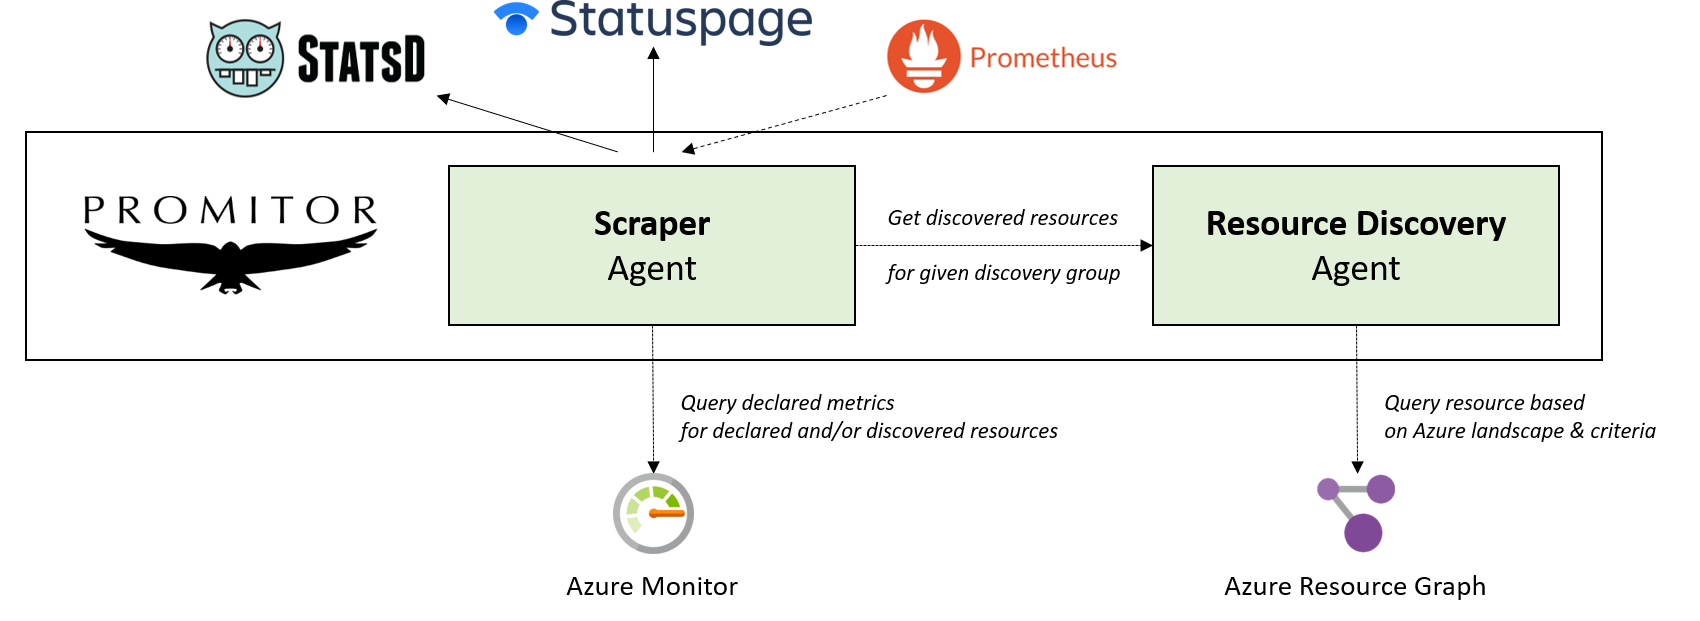
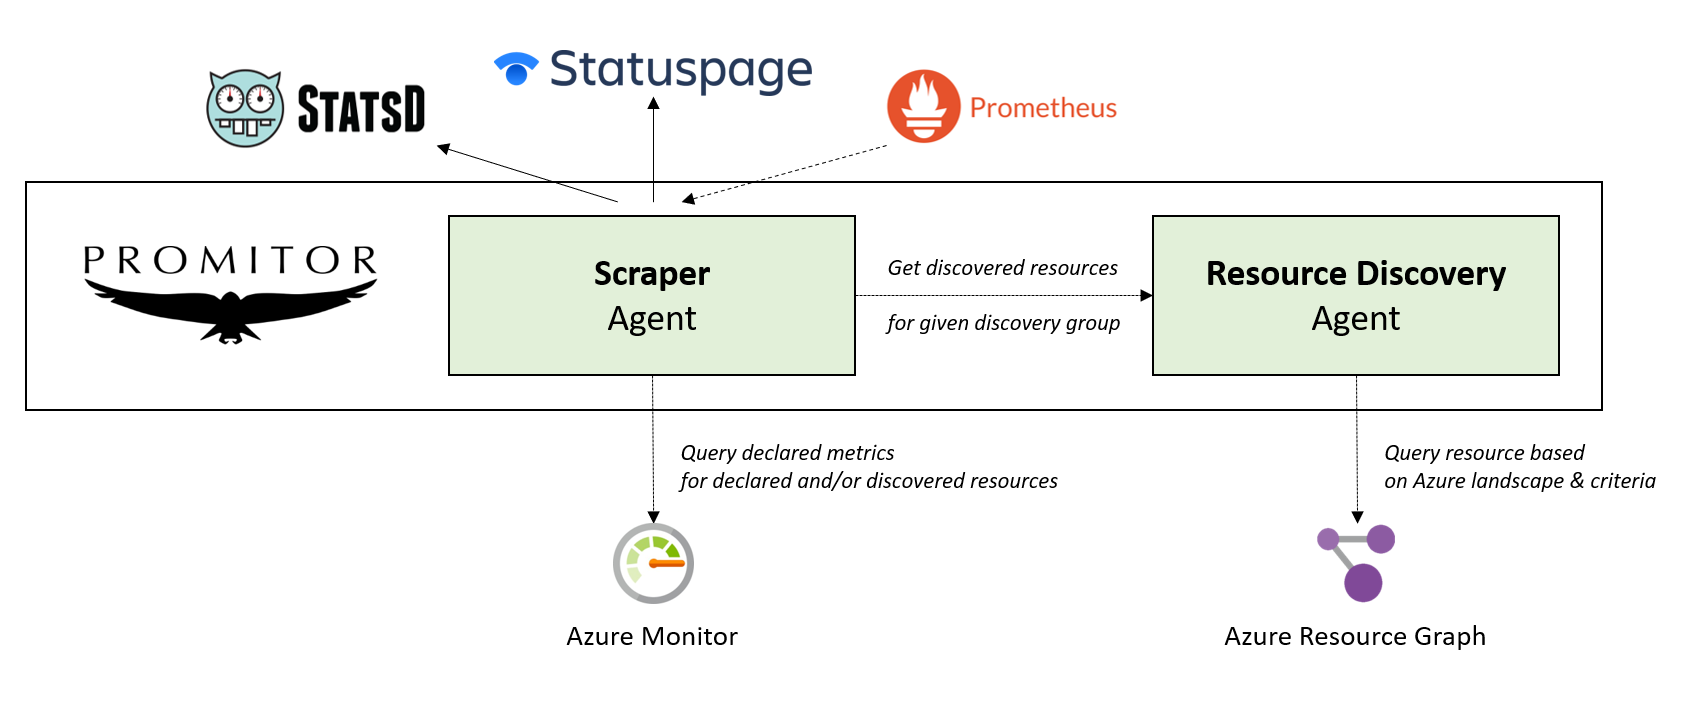
Provide an overview of how Promitor works (#1190)

diff --git a/docs/concepts/how-it-works.md b/docs/concepts/how-it-works.md
@@ -1,0 +1,60 @@
+---
+layout: default
+title: How Does Promitor Work?
+---
+
+**Promitor** is an Azure Monitor scraper which makes the metrics available
+to a variety of metric systems such as Atlassian Statuspage, Prometheus and StatsD.
+
+{:refdef: style="text-align: center;"}
+![Promitor](./../media/concepts/high-level.png)
+{: refdef}
+
+## Scraping Azure Monitor metrics
+
+When you want to scrape resources, you can use **Promitor Scraper** which uses a metrics-as-code approach.
+
+By writing a metric declaration, you will define what Azure Monitor metrics to scrape for a set of Azure resources and
+ to what metric sink(s) they should be reported.
+
+Here's an overview of how it works:
+
+{:refdef: style="text-align: center;"}
+![Promitor Scraper without resource discovery](./../media/concepts/how-it-works-without-discovery.png)
+{: refdef}
+
+## Using resource discovery
+
+While Promitor Scraper uses a declarative approach for defining Azure resources to scrape; as of Promitor Scraper 2.0
+ you can integrate with **Promitor Resource Discovery**!
+
+With resource discovery, you can define **resource discovery groups** that represent Azure resources of a given type and
+ optionally define criteria for the resources to comply with.
+
+By doing this, you can **change your metric declaration for Promitor Scraper so that,** instead of using declared resources,
+ **reference a resource discovery group** which be used to determine what Azure resources it should scrape
+ metrics for.
+
+Behind the scenes, Promitor Resource Discovery integrates with **Azure Resource Graph** which will query your Azure landscape
+ to discover the corresponding resources.
+
+Here's an overview of how they work together:
+
+{:refdef: style="text-align: center;"}
+![Promitor Scraper with resource discovery](./../media/concepts/how-it-works-with-discovery.png)
+{: refdef}
+
+## What components do agents provide?
+
+Every Promitor agent provides a REST API which which you can integrate and uses background jobs to acquire the data
+ to reduce latency.
+
+Here's a detailed overview:
+
+{:refdef: style="text-align: center;"}
+![Agent internals](./../media/concepts/agent-internals.png)
+{: refdef}
+
+_(*) Resources are still discovered sychronoursly but this will be implemented in Promitor Resource Discovery v0.2._
+
+[&larr; back](/)

diff --git a/docs/index.md b/docs/index.md
@@ -6,7 +6,8 @@ title: Promitor - Bringing Azure Monitor metrics where you need them
 [![License](https://img.shields.io/github/license/mashape/apistatus.svg?style=flat-square)](https://github.com/tomkerkhove/promitor/blob/master/LICENSE)
 [![Build Status](https://img.shields.io/azure-devops/build/tomkerkhove/promitor/50/master.svg?label=Scraper%20Agent%20-%20CI&style=flat-square)](https://dev.azure.com/tomkerkhove/Promitor/_build/latest?definitionId=50&branchName=master)
 [![Docker Pulls](https://img.shields.io/docker/pulls/tomkerkhove/promitor-agent-scraper.svg?style=flat-square)](https://hub.docker.com/r/tomkerkhove/promitor-agent-scraper/)
-[![Docker Stars](https://img.shields.io/docker/stars/tomkerkhove/promitor-agent-scraper.svg?style=flat-square)](https://hub.docker.com/r/tomkerkhove/promitor-agent-scraper/)[![Donate](https://img.shields.io/badge/Donate%20via-GitHub-blue.svg?style=flat-square)](https://github.com/users/tomkerkhove/sponsorship)
+[![Docker Stars](https://img.shields.io/docker/stars/tomkerkhove/promitor-agent-scraper.svg?style=flat-square)](https://hub.docker.com/r/tomkerkhove/promitor-agent-scraper/)
+[![Donate](https://img.shields.io/badge/Donate%20via-GitHub-blue.svg?style=flat-square)](https://github.com/users/tomkerkhove/sponsorship)
 
 **Promitor** is an Azure Monitor scraper which makes the metrics available
 for metric systems such as Atlassian Statuspage, Prometheus and StatsD.
@@ -46,6 +47,7 @@ and vote for features!
 
 ## Documentation
 
+- **[How It Works](concepts/how-it-works)**
 - **Metrics**
   - [General Declaration](configuration/v1.x/metrics)
   - [Supported Providers](configuration/v1.x/metrics#supported-azure-services)
